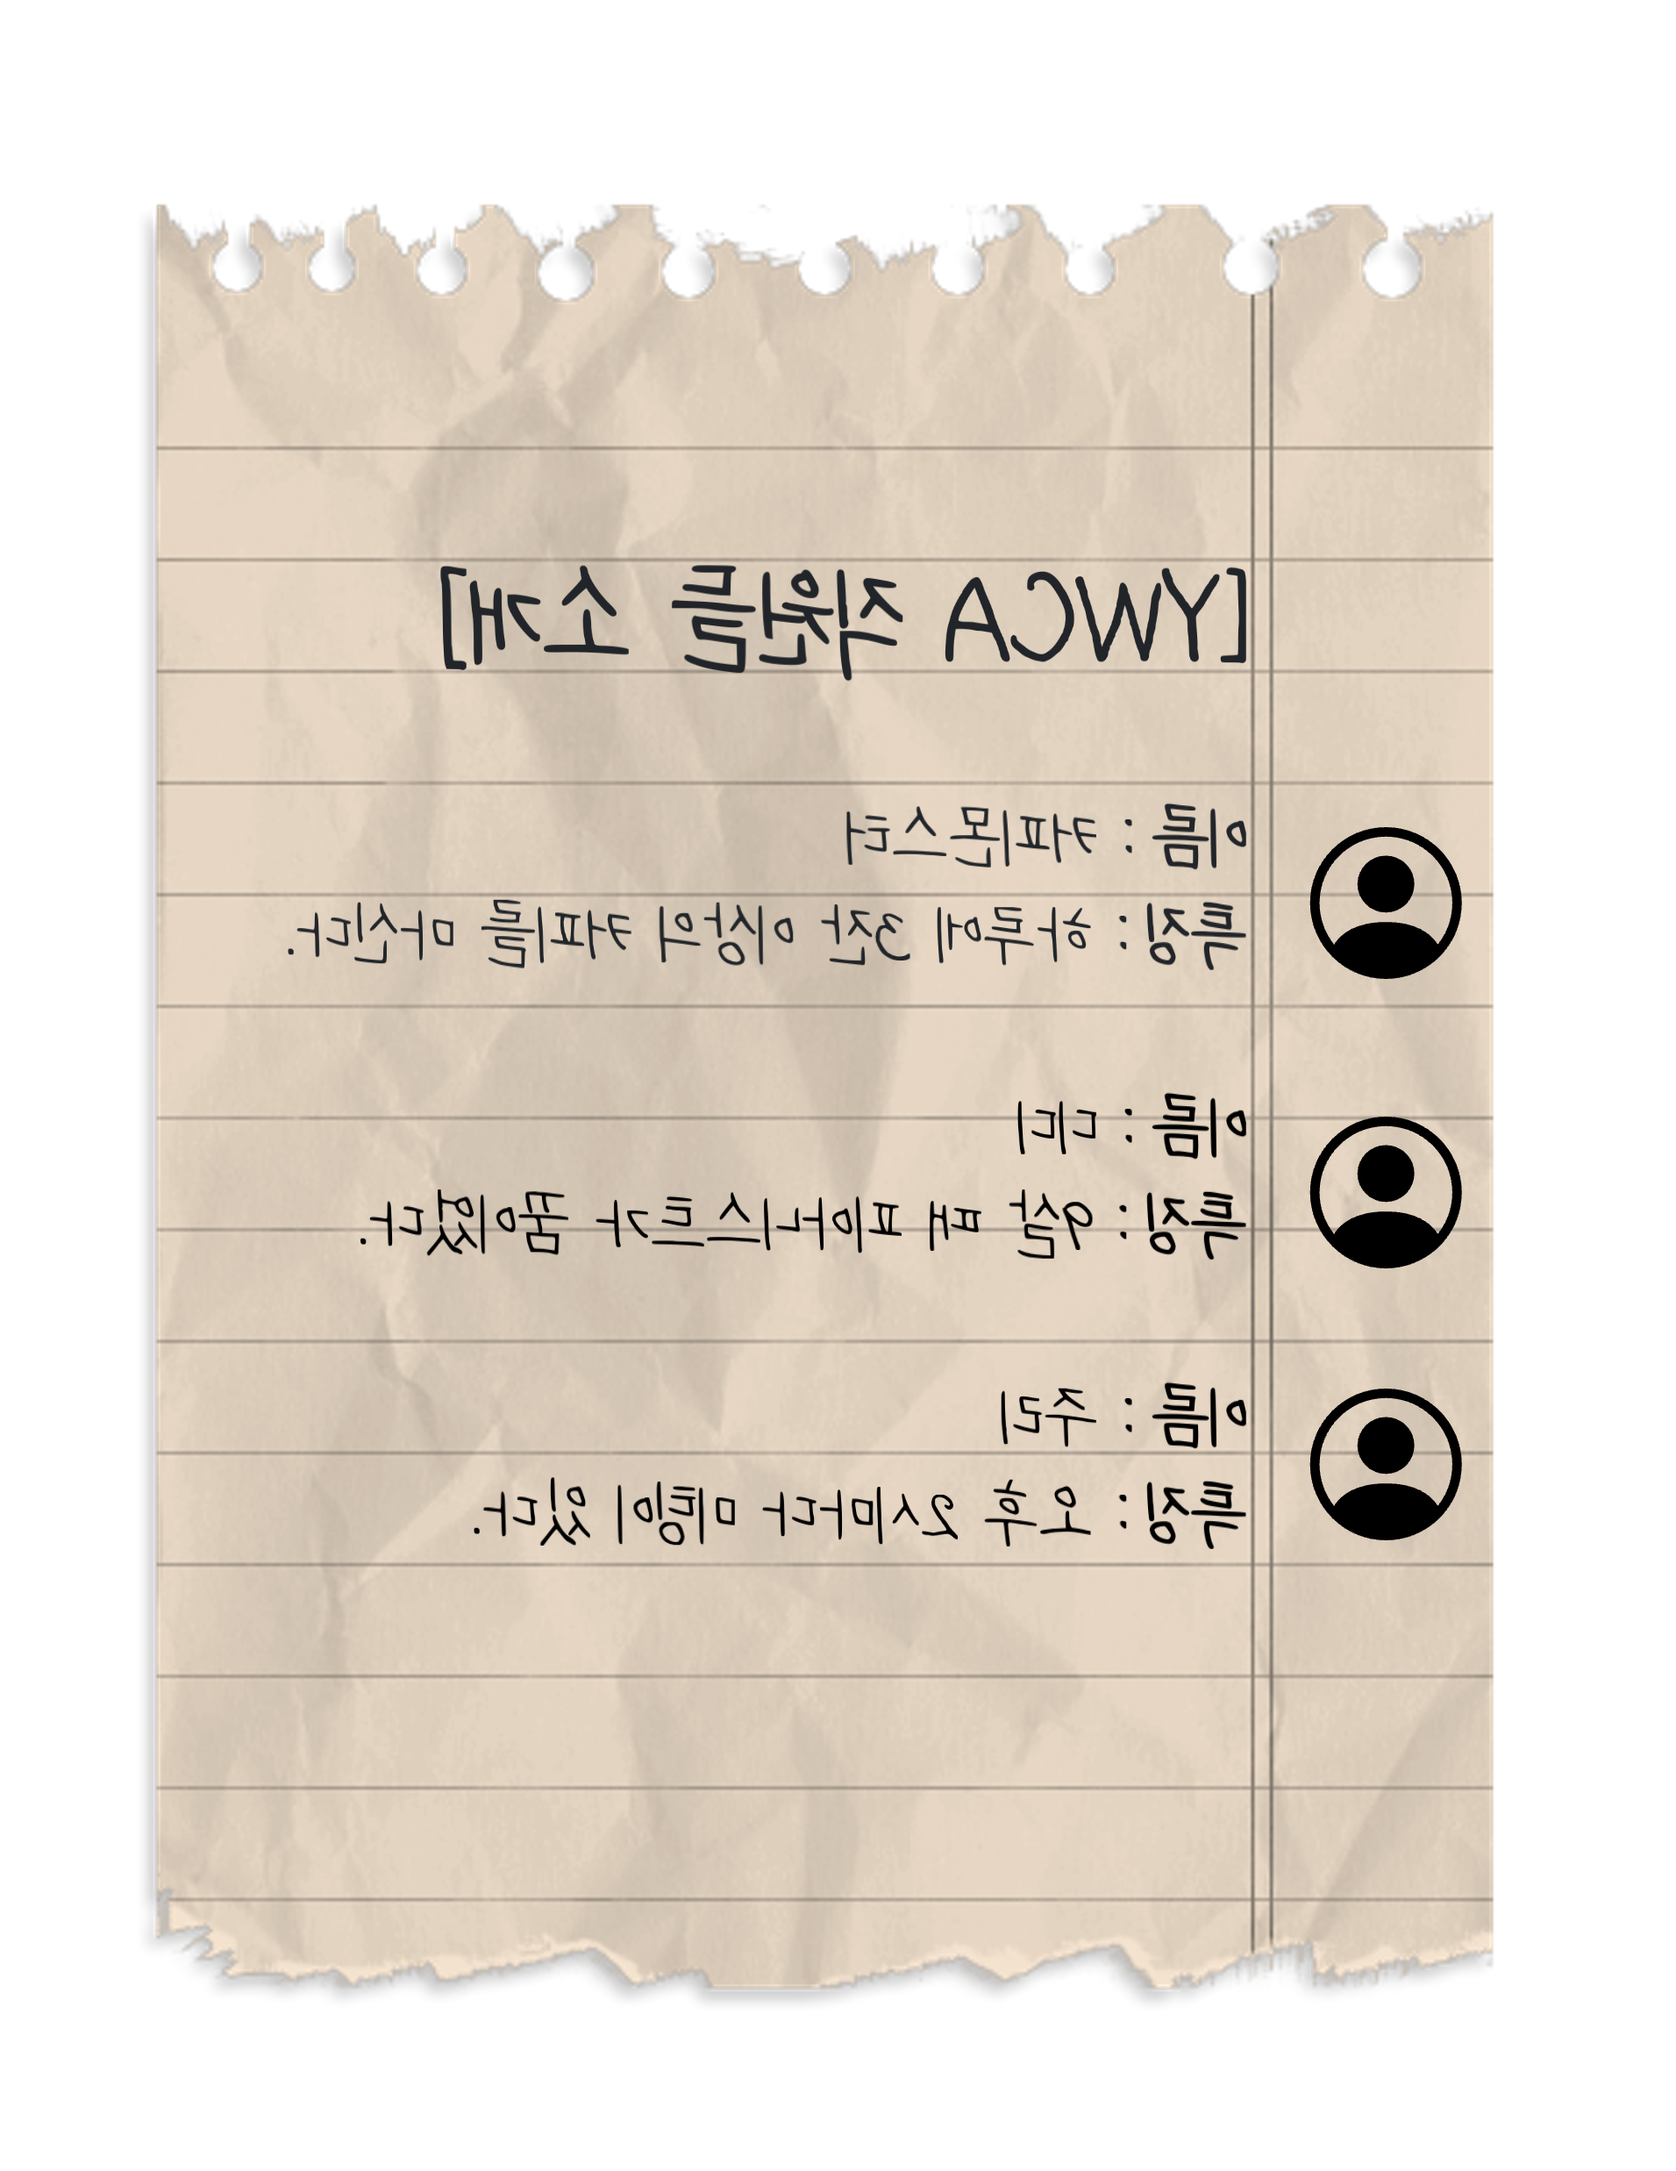
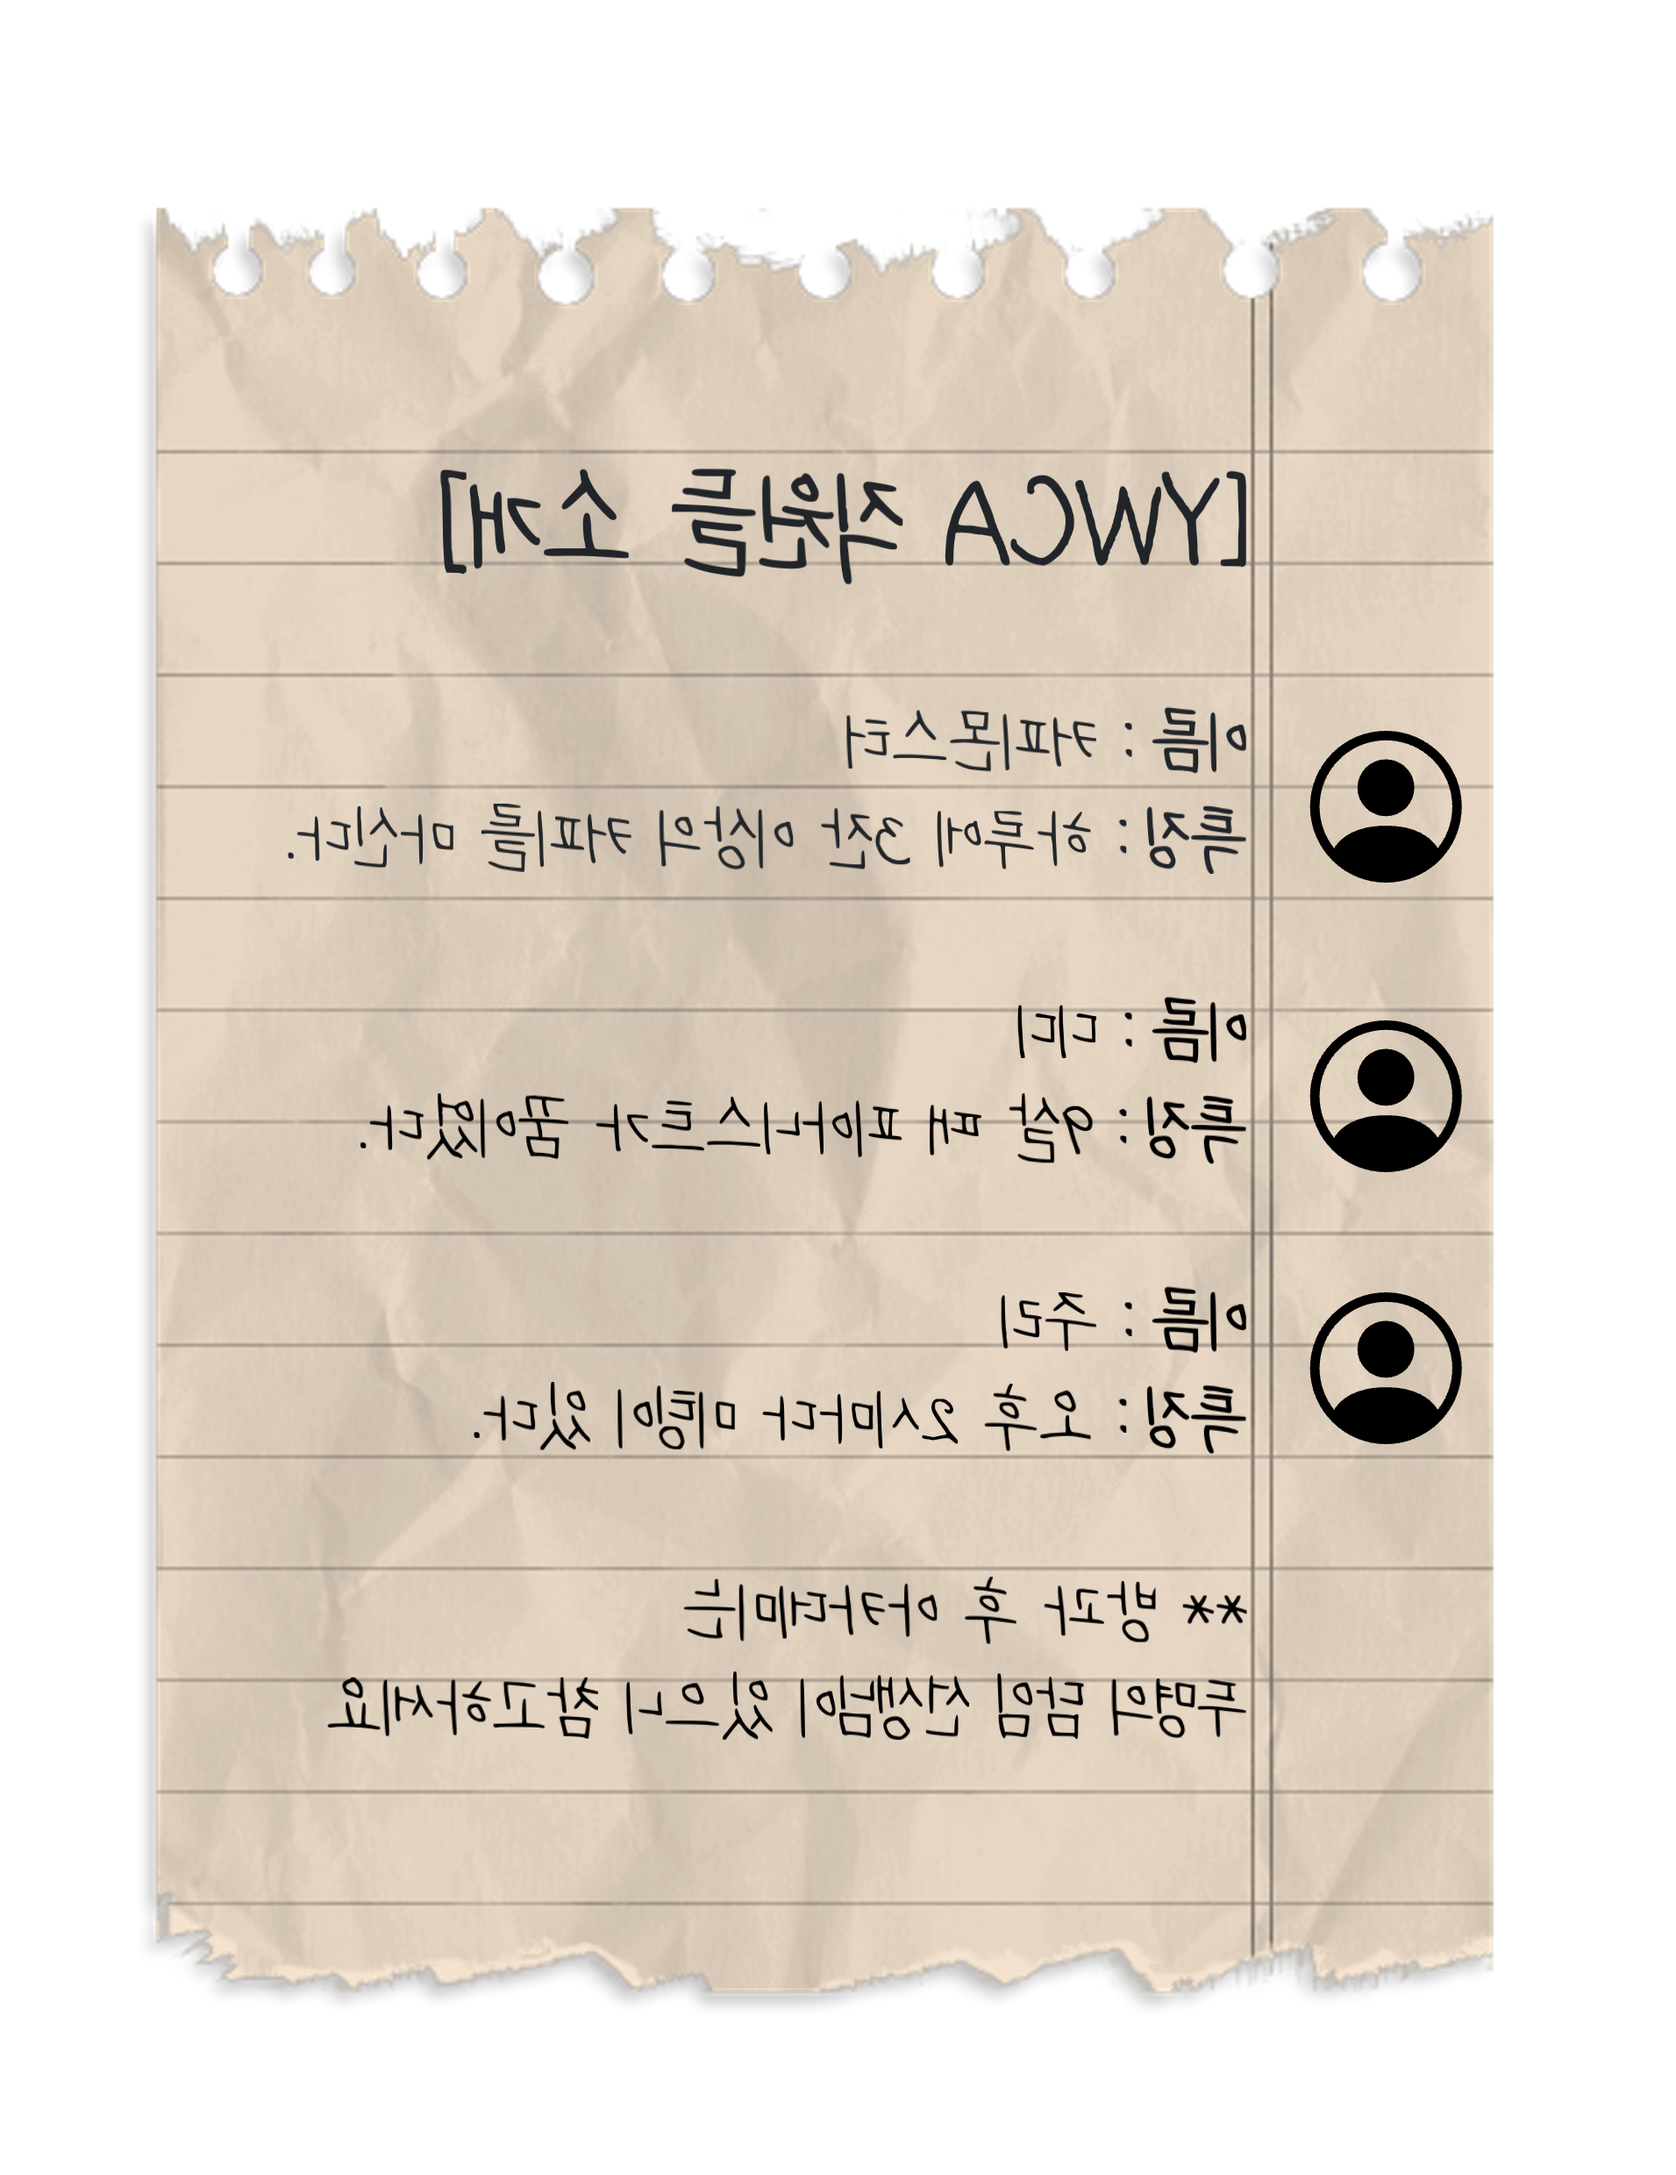
game3 pc 비밀번호 변경

diff --git a/Final Project/game3/parkmin/js/object-controller.js b/Final Project/game3/parkmin/js/object-controller.js
@@ -28,7 +28,7 @@ obj1.onclick = function () {
     audio.volume = 0.5;
     audio.play();
 
-    alert('YWCA 직원에 대한 소개 책자이다. 잠긴 PC에 대한 힌트가 있을 것 같다.');
+    alert('대흥동 문화의 집 직원에 대한 소개 책자이다. \n잠긴 PC에 대한 힌트가 있을 것 같다.');
     obj1.style.opacity = 0.5;
     
     location.href="../h01010/html/bookGame.html";
@@ -49,7 +49,7 @@ obj2.onclick = function () {
 
 obj3.onclick = function () {
     var inputString = prompt('PC를 이용하려면 암호를 입력하세요.', '');
-    if (inputString == "YWCA") {
+    if (inputString == "3922") {
         var audio = new Audio('audio/pc-start.wav');
         audio.volume = 0.5;
         audio.play();

diff --git a/Final Project/game3/parkmin/credit.html b/Final Project/game3/parkmin/credit.html
@@ -40,7 +40,7 @@
         setTimeout(() => {
             document.querySelector('#logo').style.opacity = 1;
             setTimeout(() => {
-                document.location.href = "https://blog.daum.net/djyouth1318/";
+                document.location.href = "../../main/index.html";
             }, 3000)
         }, 2500);
     }
